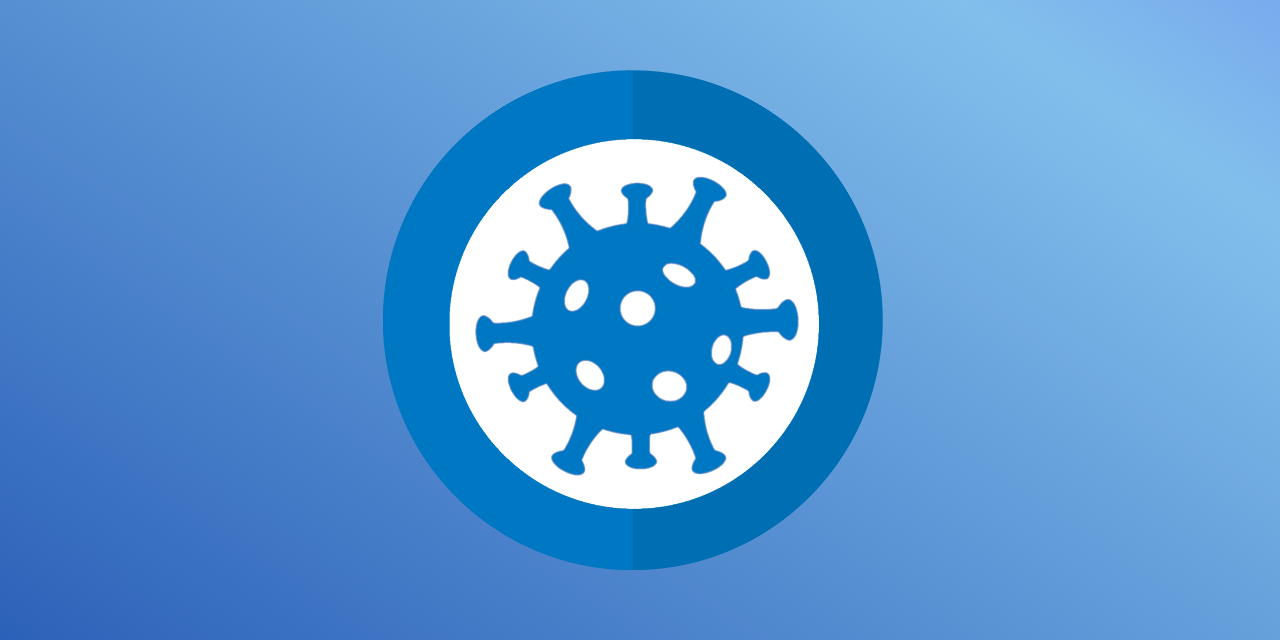
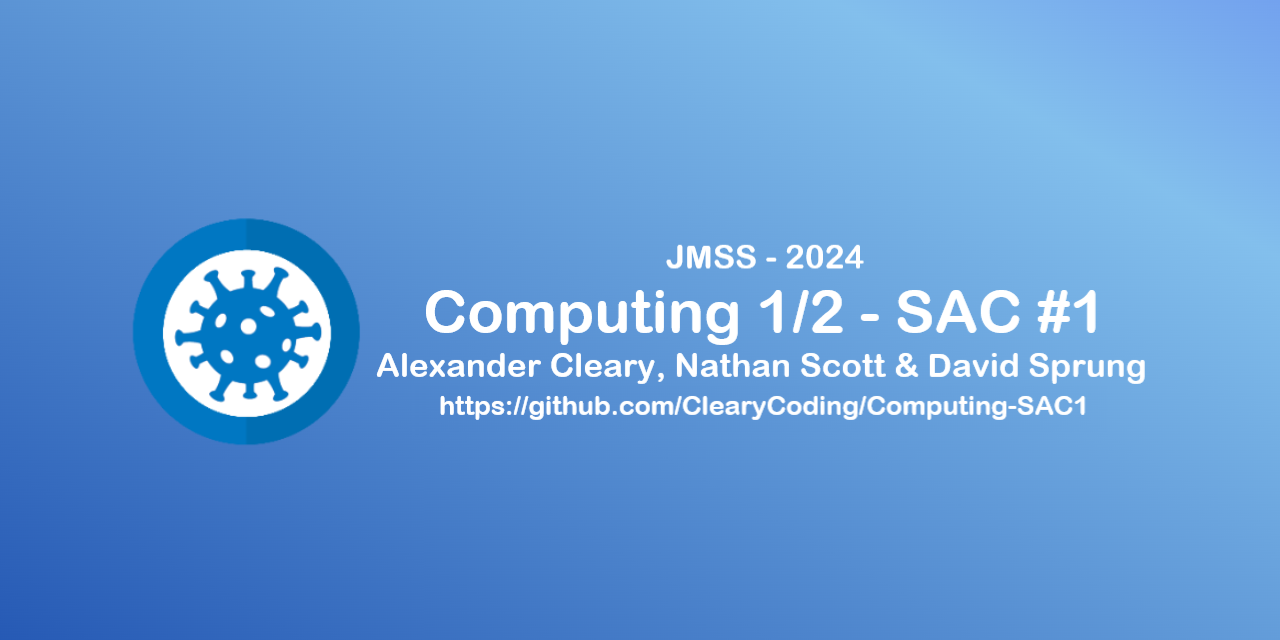
Slightly Faster Animation + Update Repository Graphic

Changed region(s): [[0.0938, 0.0938, 0.9062, 0.9062]]

diff --git a/assets/styles/main.css b/assets/styles/main.css
@@ -13,7 +13,7 @@ body {
     #3e41ff,
     #9fdcff) fixed;
     background-size: 600% 600%;
-    animation: AnimationName 180s linear infinite;
+    animation: AnimationName 140s linear infinite;
 }
 @keyframes AnimationName {
     0%{background-position: 0 50%}
